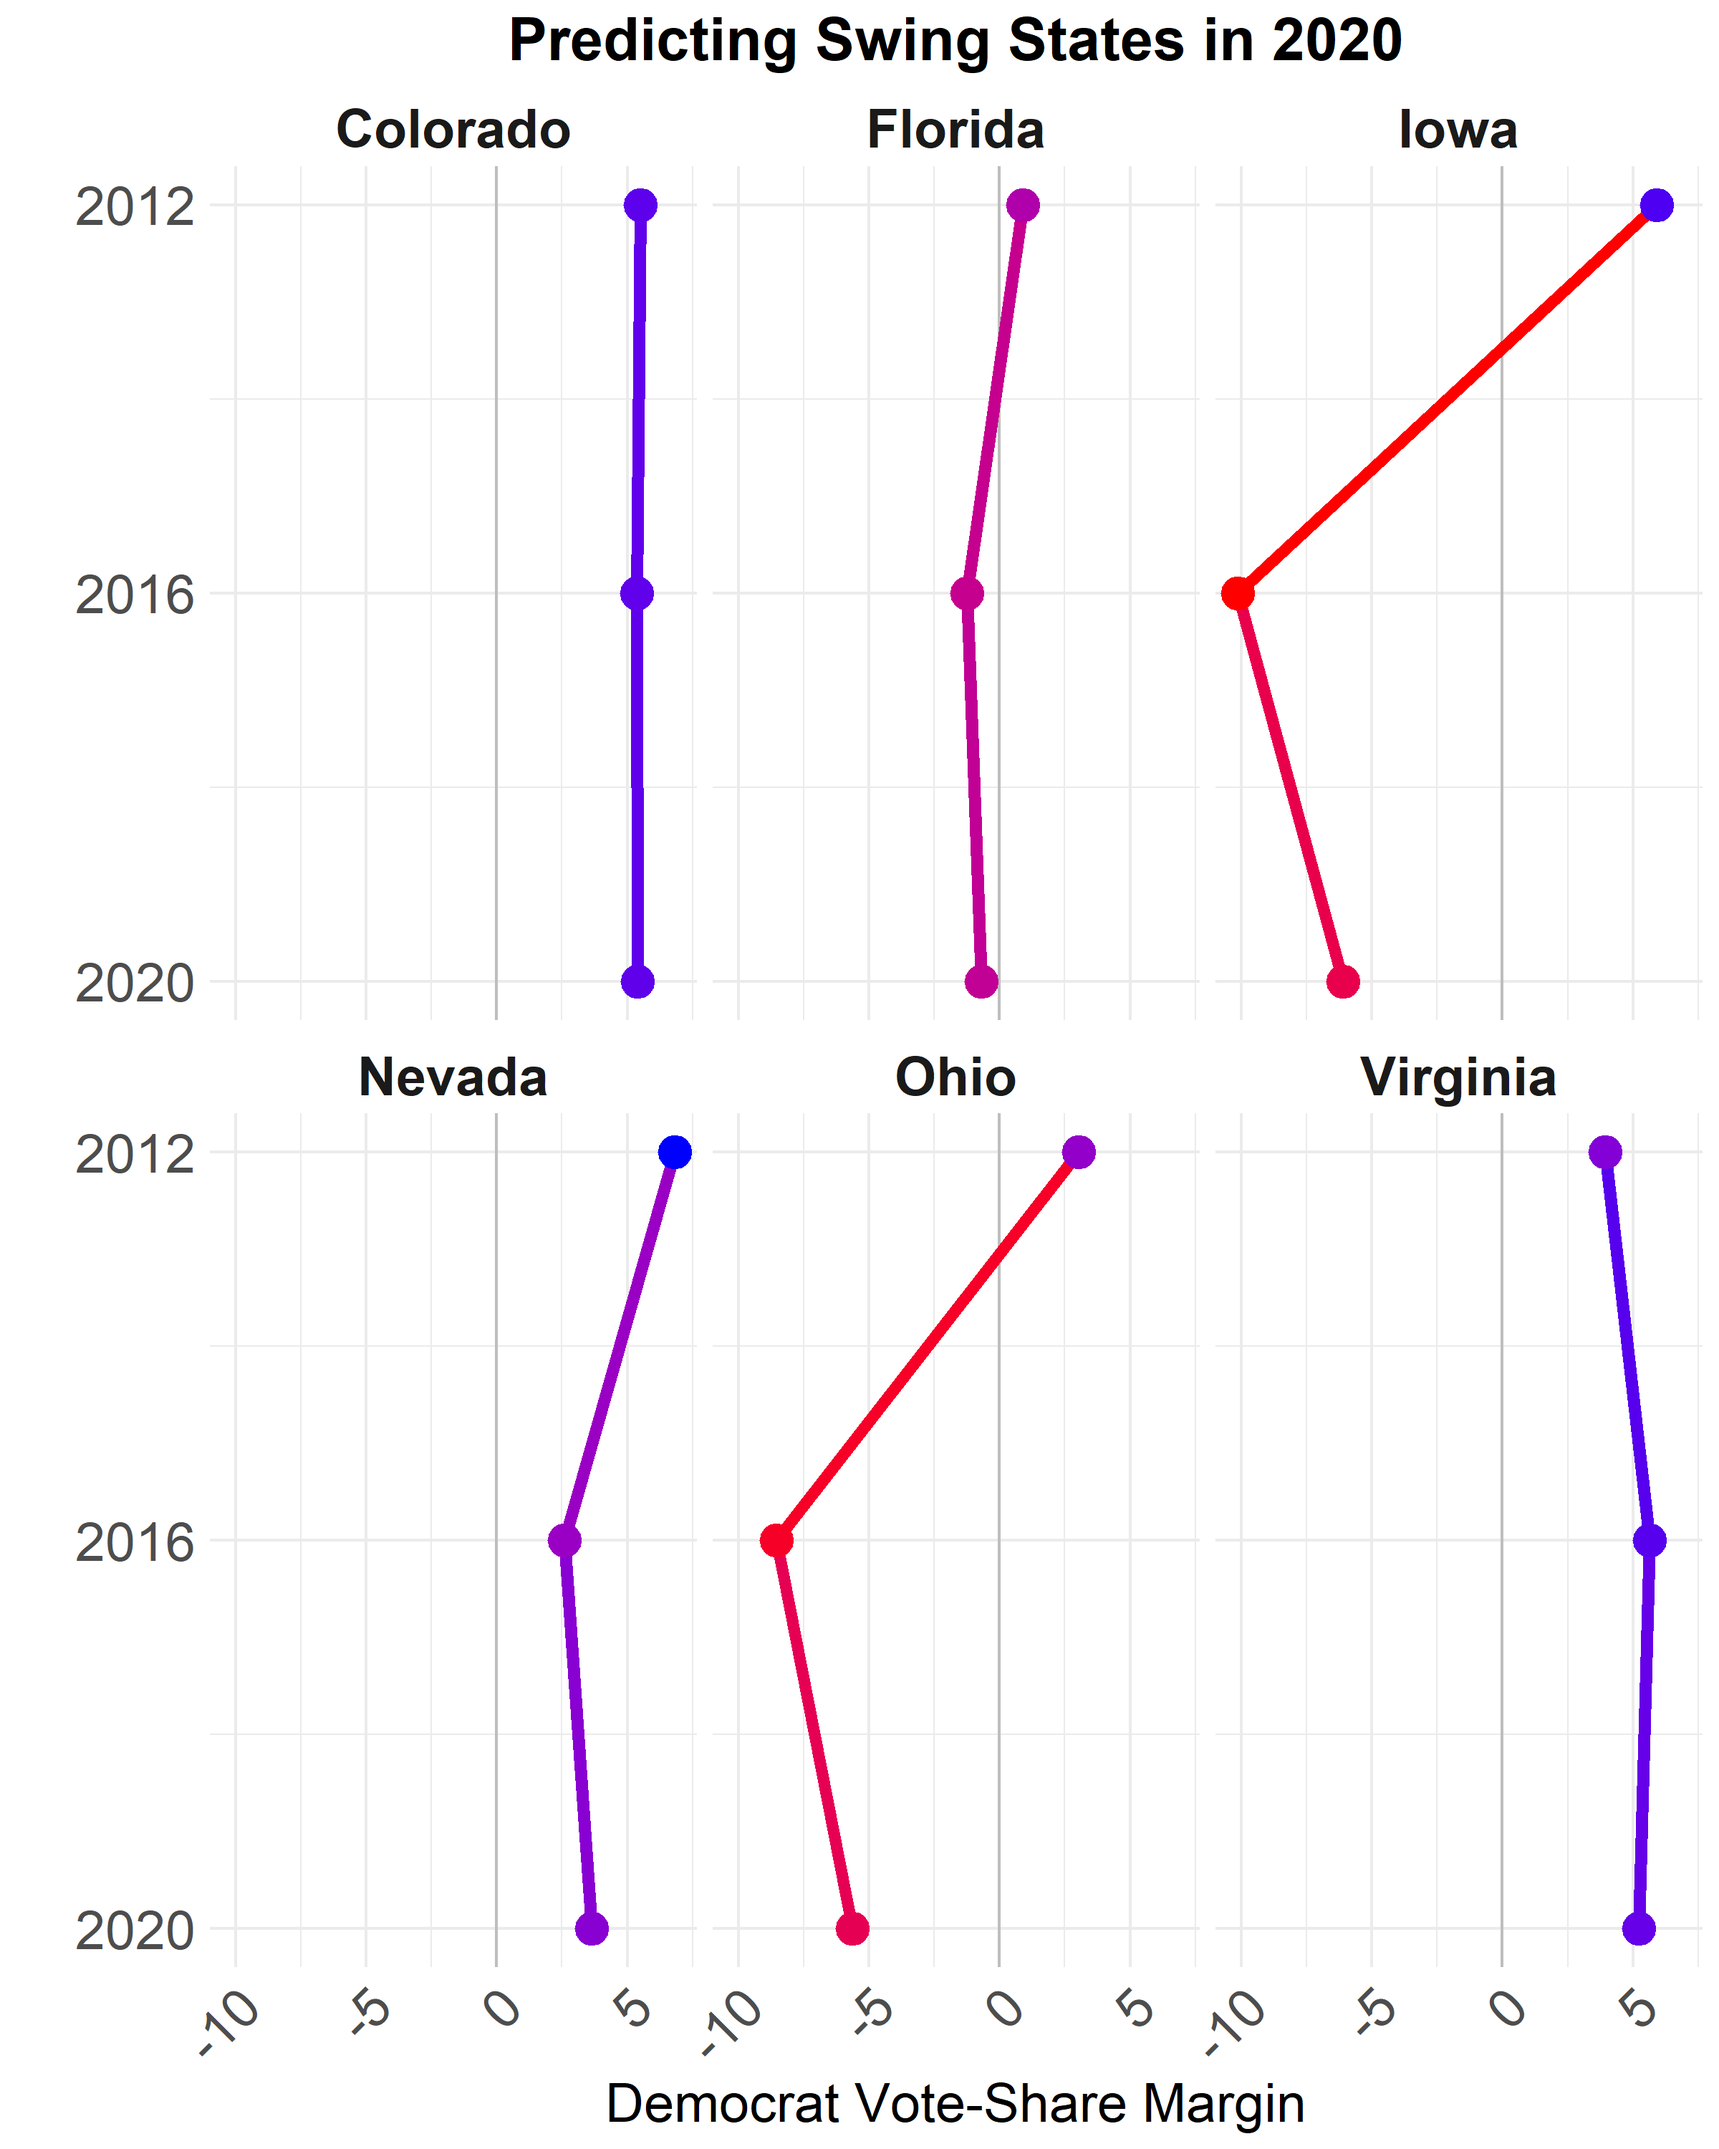
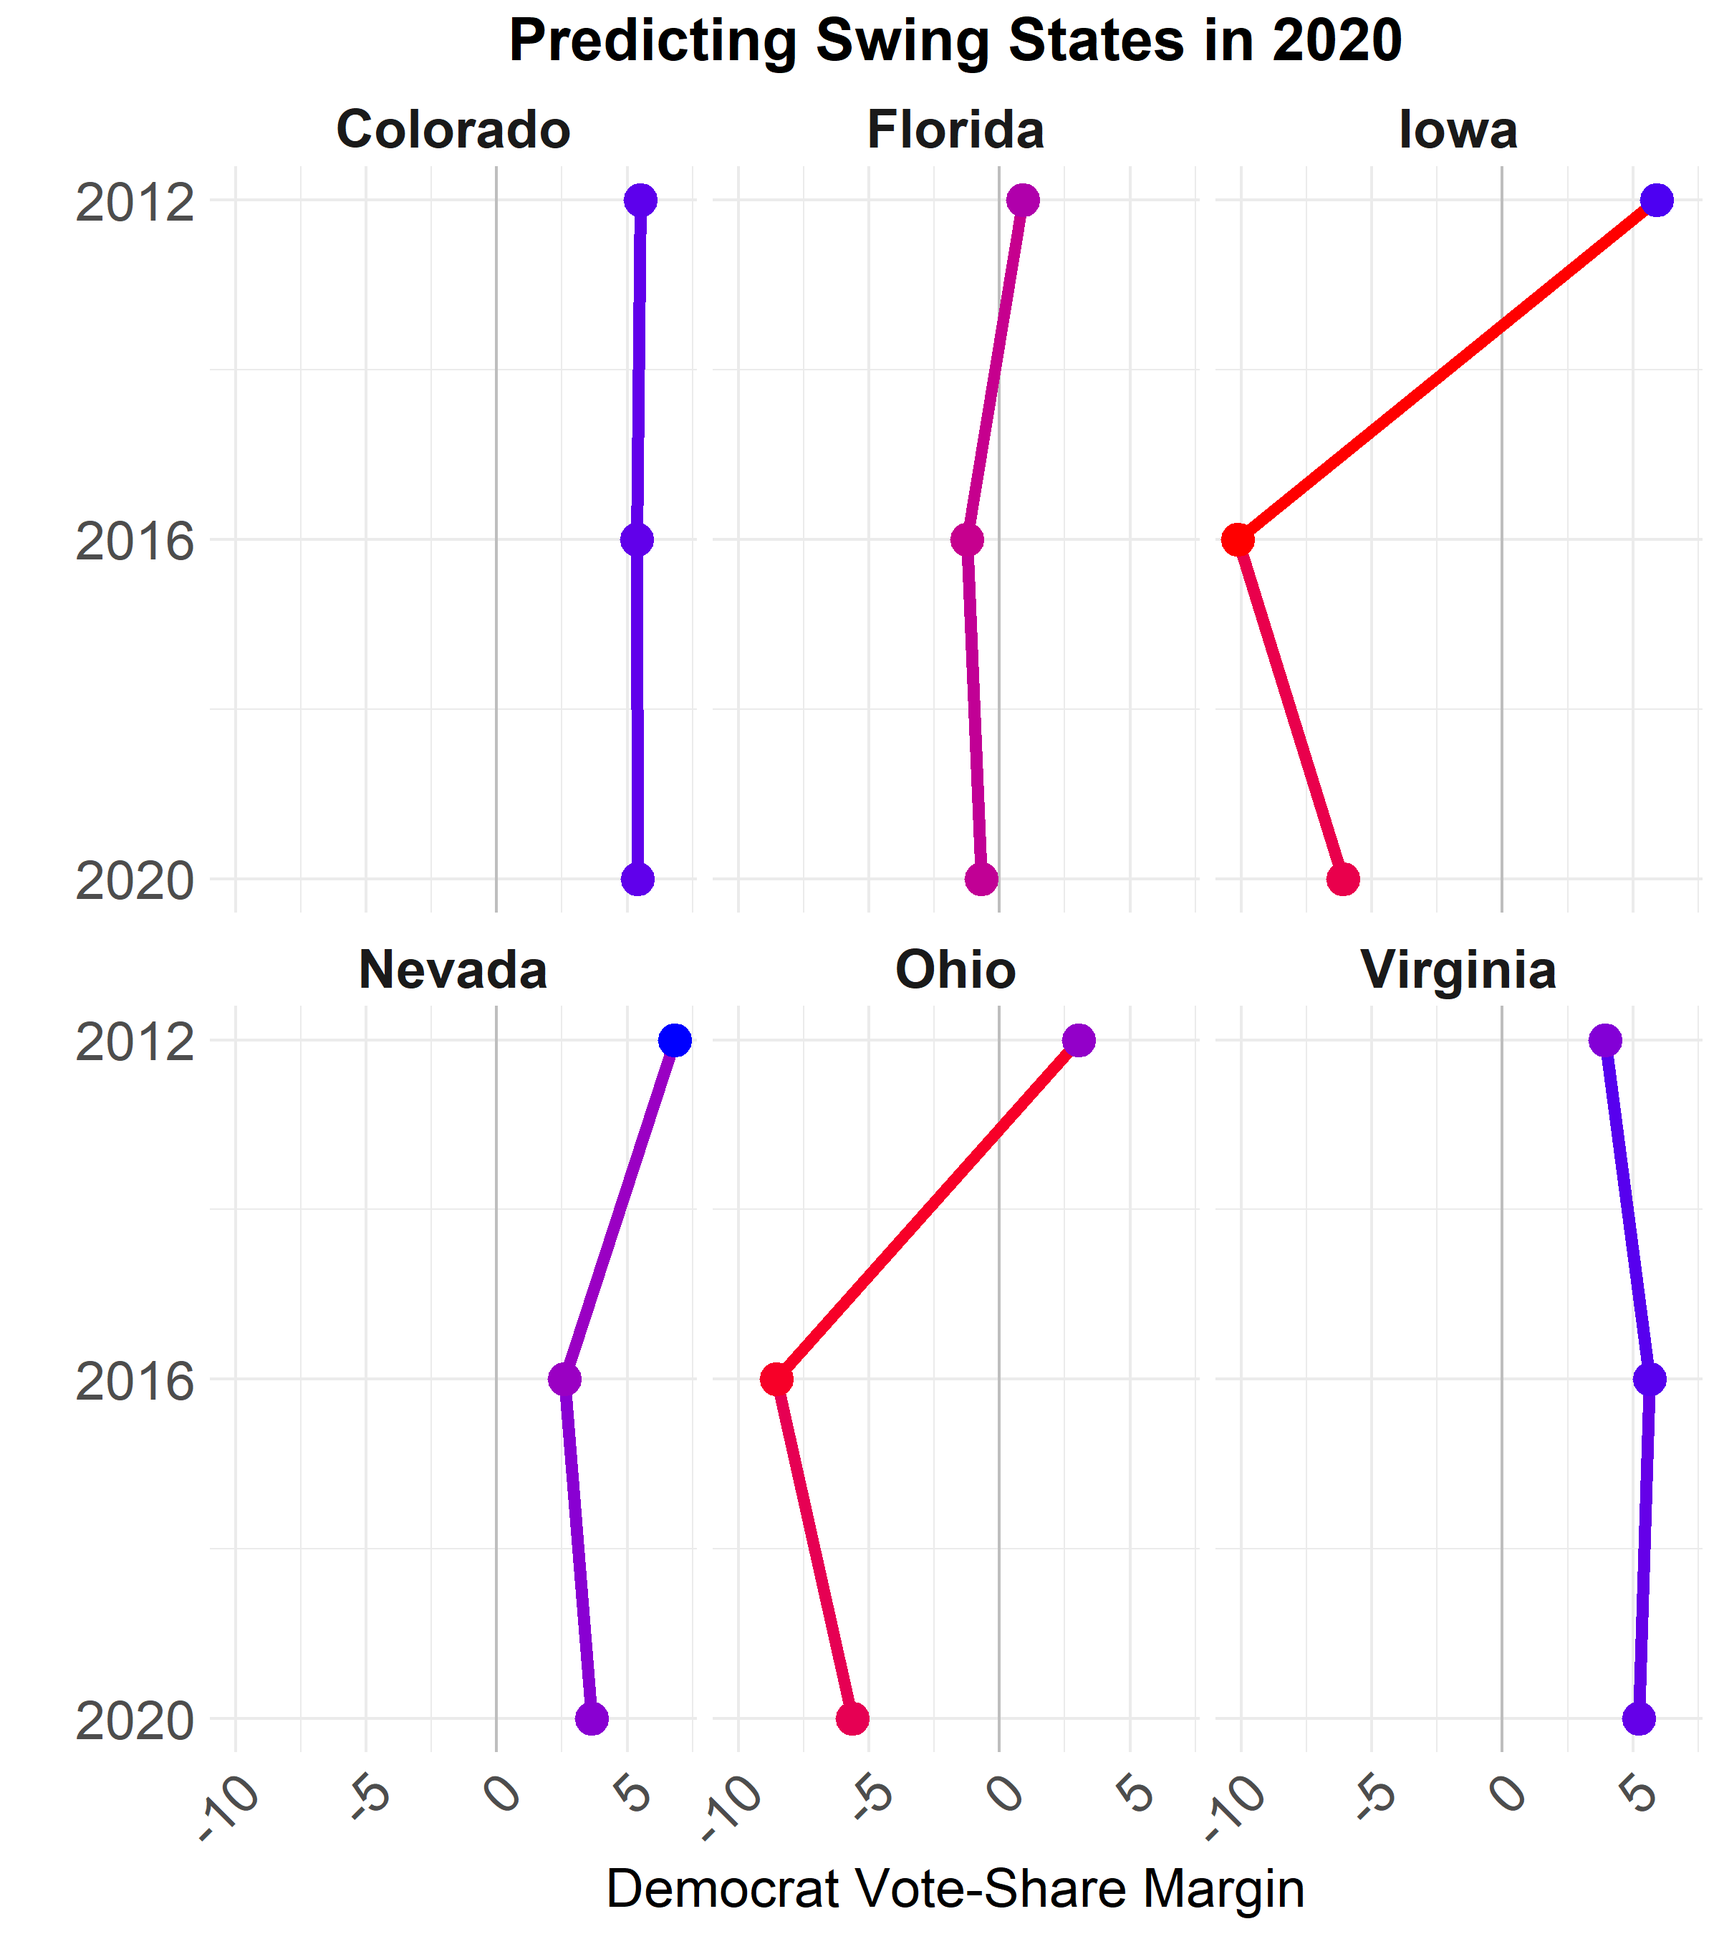
Commit of resizing image

diff --git a/_posts/2020-9-13-Introduction.md b/_posts/2020-9-13-Introduction.md
@@ -52,7 +52,6 @@ Only a few states frequently swing from a majority voting for one party to the
 other. These battleground states are critical in determining the outcome of the
 election and deserve increased attention.
 
-## Predicting Swing States in 2020
 
 ![picture](../images/swing_state_margins.png)
 
